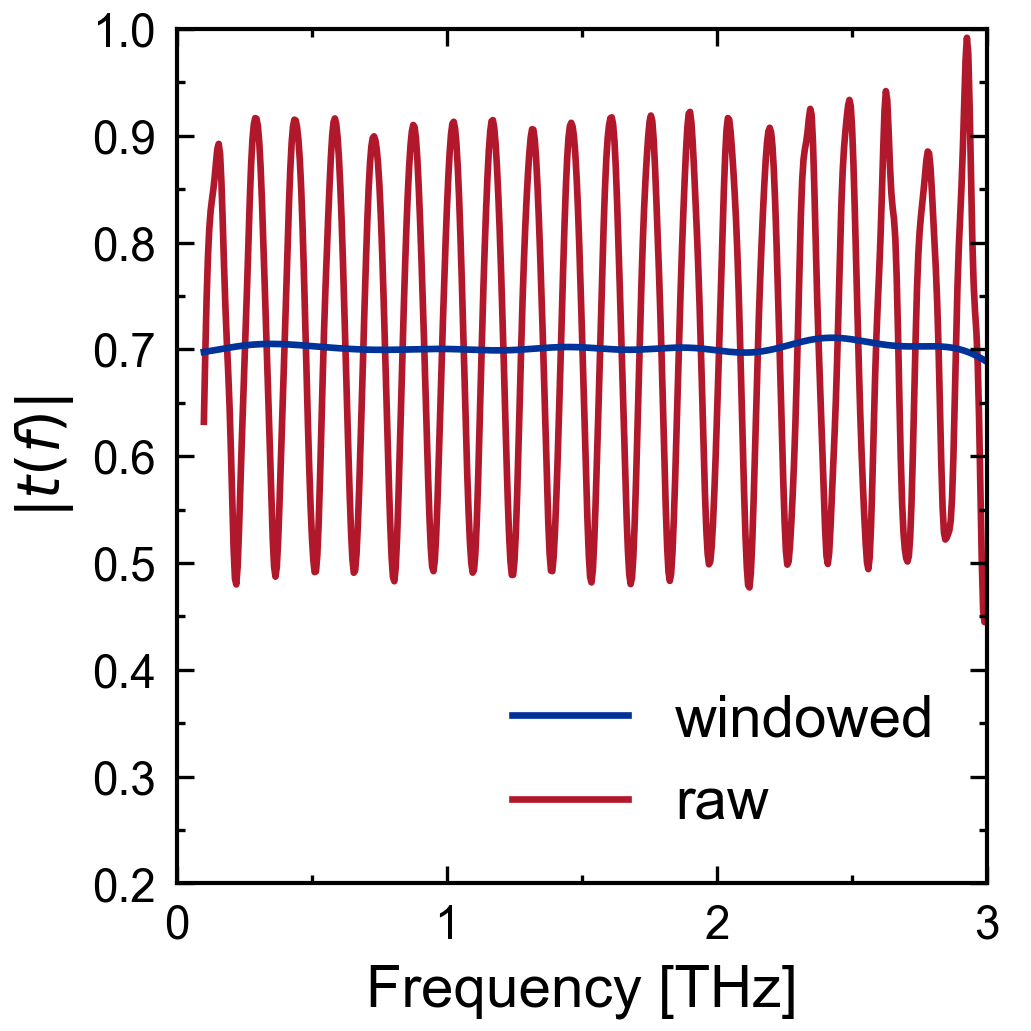
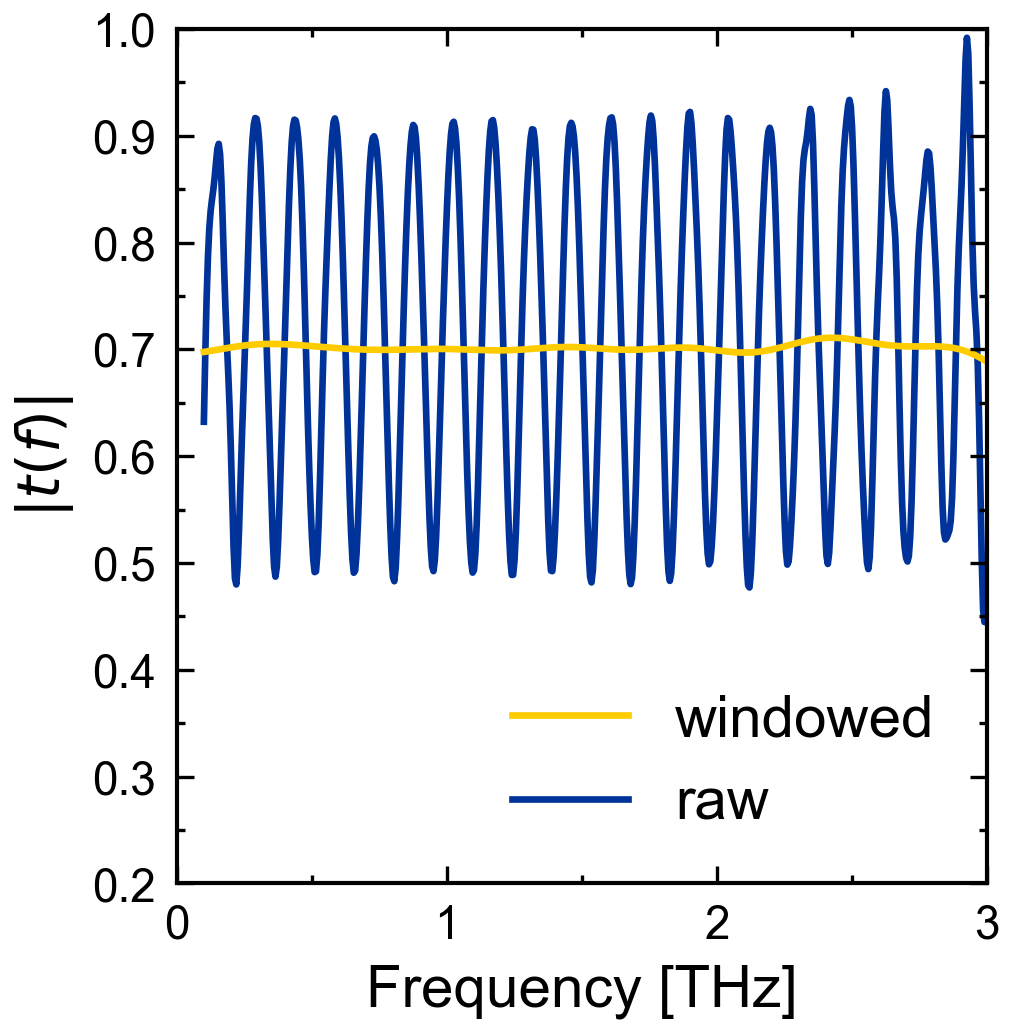
change in color of figure to match with other almost identical spectrum

Changed region(s): [[0.1862, 0.031, 0.9622, 0.5897], [0.4966, 0.6828, 0.6208, 0.7139], [0.4966, 0.7449, 0.5897, 0.7759]]

diff --git a/examples/example_windowing.py b/examples/example_windowing.py
@@ -40,7 +40,7 @@ freq_thz = whole.freq_hz[band] * 1e-12
 plot_1d(
     [freq_thz, freq_thz],
     [np.abs(windowed.field_ratio[sample_index][band]), np.abs(whole.field_ratio[sample_index][band])],
-    colors=[style_colors()[0], style_colors()[2]],
+    colors=[style_colors()[1], style_colors()[0]],
     legend_labels=["windowed", "raw"],
     xlabel="Frequency [THz]", ylabel=r"$|t(f)|$",
     xlim=(0.0, 3.0), ylim=(0.2, 1.0),
